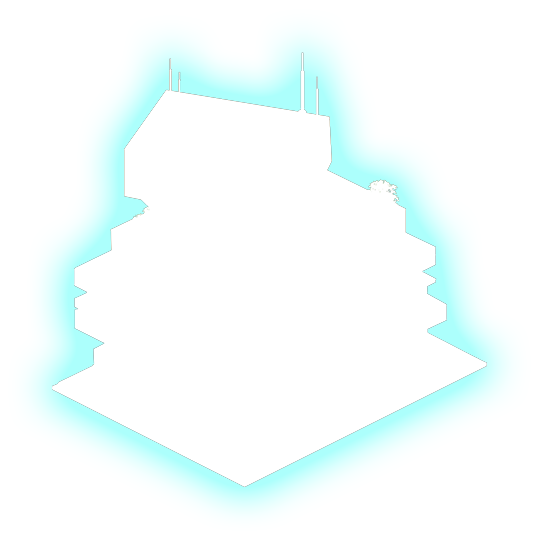
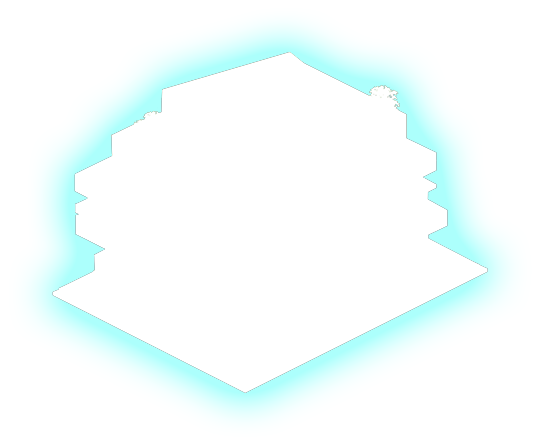
added 2 library conditions

Changed region(s): [[0.0593, 0.0583, 0.9481, 0.9327]]

diff --git a/src/buildings/config.ts b/src/buildings/config.ts
@@ -20,8 +20,12 @@ import mollTowerLevel2Stroke from './moll/2-stroke.png';
 import mollTowerLevel3Stroke from './moll/3-stroke.png';
 import eggTowerLevel3Img from './egg/3.png';
 import eggTowerLevel3Stroke from './egg/3-stroke.png';
+import libraryTowerLevel1Img from './library/1.png';
 import libraryTowerLevel2Img from './library/2.png';
+import libraryTowerLevel3Img from './library/3.png';
+import libraryTowerLevel1Stroke from './library/1-stroke.png';
 import libraryTowerLevel2Stroke from './library/2-stroke.png';
+import libraryTowerLevel3Stroke from './library/3-stroke.png';
 import observatoryTowerLevel2Img from './observatory/2.png';
 import observatoryTowerLevel2Stroke from './observatory/2-stroke.png';
 import tariffTowerLevel2Img from './tariff/2.png';
@@ -196,32 +200,30 @@ export class BuildingsService {
     [TowersTypes.LIBRARY]: {
       info: 'info',
       coords: [2256, 2490],
-      zIndex: 1,
+      zIndex: 2,
       [TowerLevel.low]: {
-        // TODO: не настоящая картинка
-        img: musicTowerLevel1Img,
-        width: 1,
-        height: 2,
-        shadowImg: musicTowerLevel1Stroke,
-        areaCoords: '128,57,418,291',
-        position: [42.2, 36.9],
+        img: libraryTowerLevel1Img,
+        width: 545,
+        height: 426,
+        shadowImg: libraryTowerLevel1Stroke,
+        areaCoords: '88,97,430,332',
+        position: [42.5, 25.7],
       },
       [TowerLevel.mid]: {
         img: libraryTowerLevel2Img,
-        width: 540,
-        height: 540,
+        width: 541,
+        height: 446,
         shadowImg: libraryTowerLevel2Stroke,
-        areaCoords: '78,92,454,445',
-        position: [40.5, 25.7],
+        areaCoords: '77,54,448,366',
+        position: [42, 25.7],
       },
       [TowerLevel.high]: {
-        // TODO: не настоящая картинка
-        img: eggTowerLevel3Img,
-        width: 384,
-        height: 531,
-        shadowImg: eggTowerLevel3Stroke,
-        areaCoords: '320,441,50,45',
-        position: [31.5, 50.9],
+        img: libraryTowerLevel3Img,
+        width: 530,
+        height: 540,
+        shadowImg: libraryTowerLevel3Stroke,
+        areaCoords: '81,86,444,462',
+        position: [40.2, 26],
       },
     },
     [TowersTypes.OBSERVATORY]: {

diff --git a/src/effector/towers-progress/store.ts b/src/effector/towers-progress/store.ts
@@ -25,7 +25,7 @@ const initState: TowersProgressStoreType = {
   [TowersTypes.ARENA]: TowerLevel.mid,
   [TowersTypes.MOLL]: TowerLevel.high,
   [TowersTypes.EGG]: TowerLevel.high,
-  [TowersTypes.LIBRARY]: TowerLevel.mid,
+  [TowersTypes.LIBRARY]: TowerLevel.high,
   [TowersTypes.OBSERVATORY]: TowerLevel.mid,
   [TowersTypes.TARIFF]: TowerLevel.mid,
   [TowersTypes.THEATER]: TowerLevel.mid,
